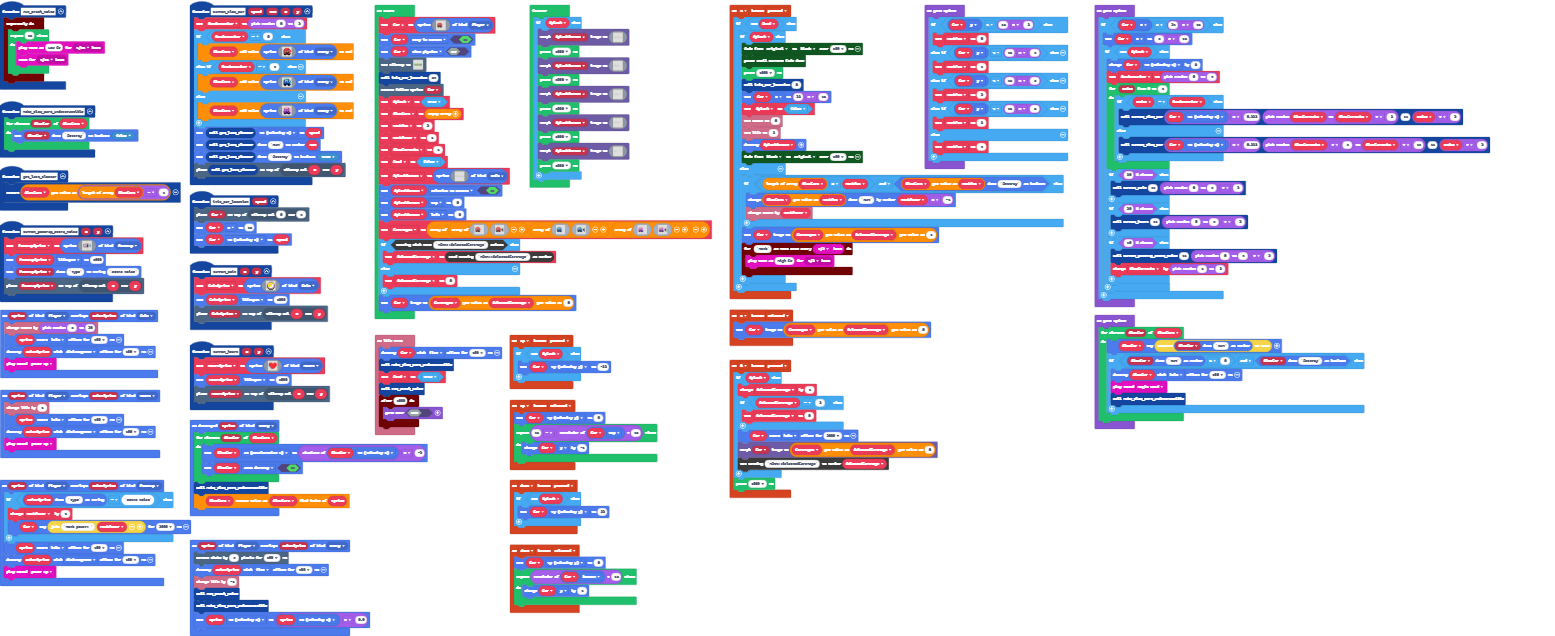
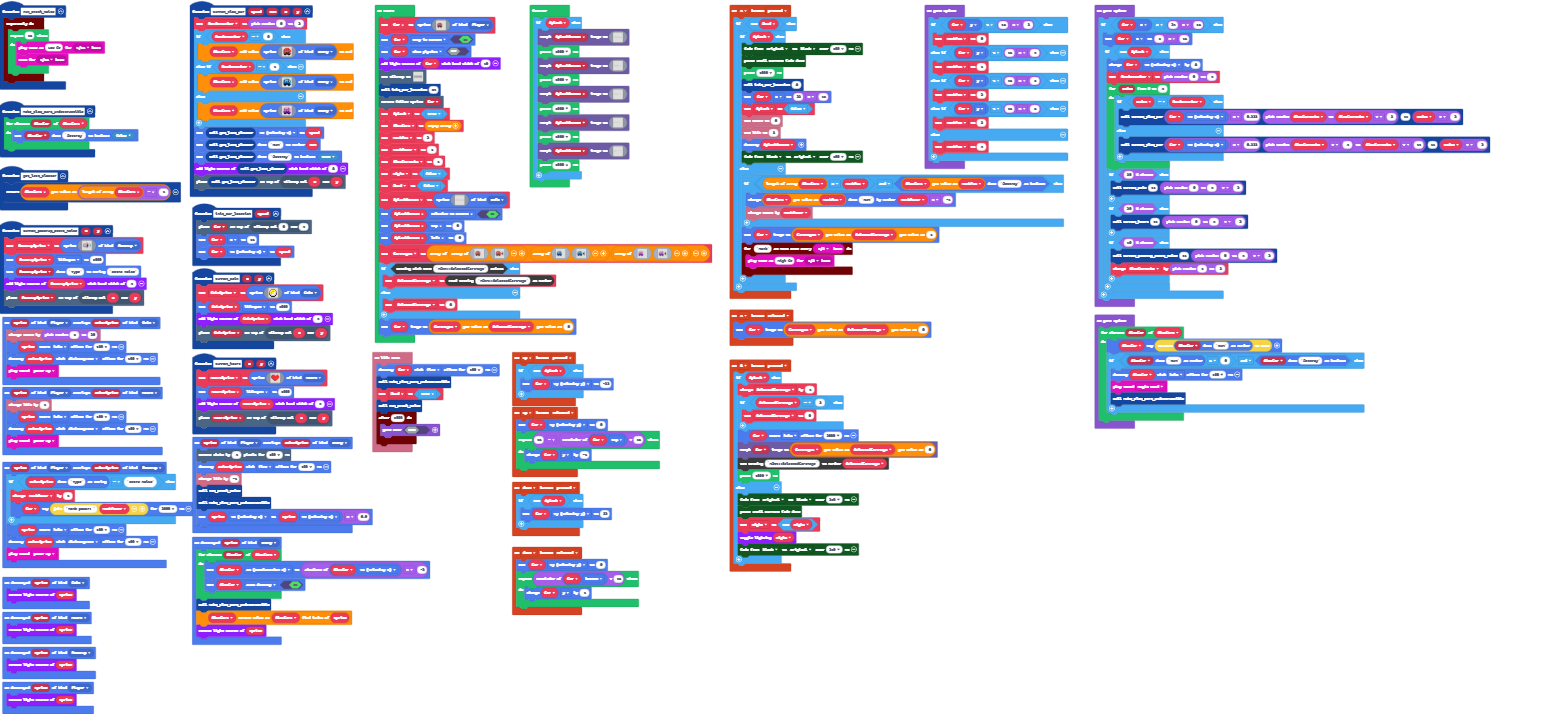
Added night mode

diff --git a/main.ts b/main.ts
@@ -78,8 +78,12 @@ function summon_slow_car (speed: number, num: number, x: number, y: number) {
     get_last_slowcar().vx = speed
     sprites.setDataNumber(get_last_slowcar(), "Num", num)
     sprites.setDataBoolean(get_last_slowcar(), "Destroy", true)
+    multilights.addLightSource(get_last_slowcar(), 8)
     tiles.placeOnTile(get_last_slowcar(), tiles.getTileLocation(x, y))
 }
+sprites.onDestroyed(SpriteKind.Coin, function (sprite) {
+    multilights.removeLightSource(sprite)
+})
 controller.B.onEvent(ControllerButtonEvent.Pressed, function () {
     if (Splash) {
         SelectedCarImage += 1
@@ -89,8 +93,14 @@ controller.B.onEvent(ControllerButtonEvent.Pressed, function () {
         Car.startEffect(effects.halo, 2000)
         imagemorph.morph(Car, CarImages[SelectedCarImage][0])
         blockSettings.writeNumber("HONK!:SelectedCarImage", SelectedCarImage)
+        pause(1000)
+    } else {
+        color.startFade(color.originalPalette, color.Black, 250)
+        color.pauseUntilFadeDone()
+        Night = !(Night)
+        multilights.toggleLighting(Night)
+        color.startFade(color.Black, color.originalPalette, 250)
     }
-    pause(1000)
 })
 function make_slow_cars_undestructible () {
     for (let SlowCar of SlowCars) {
@@ -151,6 +161,9 @@ sprites.onOverlap(SpriteKind.Player, SpriteKind.Heart, function (sprite, otherSp
     otherSprite.destroy(effects.disintegrate, 100)
     music.powerUp.play()
 })
+sprites.onDestroyed(SpriteKind.PowerUp, function (sprite) {
+    multilights.removeLightSource(sprite)
+})
 function summon_heart (x: number, y: number) {
     HeartSprite = sprites.create(img`
         . c 2 2 . . 2 2 . 
@@ -162,6 +175,7 @@ function summon_heart (x: number, y: number) {
         . . . c 2 2 . . . 
         `, SpriteKind.Heart)
     HeartSprite.lifespan = 5000
+    multilights.addLightSource(HeartSprite, 4)
     tiles.placeOnTile(HeartSprite, tiles.getTileLocation(x, y))
 }
 controller.A.onEvent(ControllerButtonEvent.Released, function () {
@@ -202,6 +216,7 @@ function summon_powerup_extra_noise (x: number, y: number) {
         `, SpriteKind.PowerUp)
     PowerUpSprite.lifespan = 5000
     sprites.setDataString(PowerUpSprite, "Type", "extra noise")
+    multilights.addLightSource(PowerUpSprite, 4)
     tiles.placeOnTile(PowerUpSprite, tiles.getTileLocation(x, y))
 }
 info.onLifeZero(function () {
@@ -212,6 +227,9 @@ info.onLifeZero(function () {
     timer.after(5000, function () {
         game.over(false)
     })
+})
+sprites.onDestroyed(SpriteKind.Heart, function (sprite) {
+    multilights.removeLightSource(sprite)
 })
 function summon_coin (x: number, y: number) {
     CoinSprite = sprites.create(img`
@@ -225,6 +243,7 @@ function summon_coin (x: number, y: number) {
         . . f f f f . . 
         `, SpriteKind.Coin)
     CoinSprite.lifespan = 5000
+    multilights.addLightSource(CoinSprite, 4)
     tiles.placeOnTile(CoinSprite, tiles.getTileLocation(x, y))
 }
 sprites.onDestroyed(SpriteKind.Enemy, function (sprite) {
@@ -234,12 +253,16 @@ sprites.onDestroyed(SpriteKind.Enemy, function (sprite) {
     }
     make_slow_cars_undestructible()
     SlowCars.removeAt(SlowCars.indexOf(sprite))
+    multilights.removeLightSource(sprite)
 })
 function init_car_location (speed: number) {
     tiles.placeOnTile(Car, tiles.getTileLocation(0, 4))
     Car.x = 16
     Car.vx = speed
 }
+sprites.onDestroyed(SpriteKind.Player, function (sprite) {
+    multilights.removeLightSource(sprite)
+})
 sprites.onOverlap(SpriteKind.Player, SpriteKind.Enemy, function (sprite, otherSprite) {
     scene.cameraShake(4, 500)
     otherSprite.destroy(effects.fire, 100)
@@ -256,6 +279,7 @@ let SelectedCarImage = 0
 let CarImages: Image[][] = []
 let SplashScreen: Sprite = null
 let Dead = false
+let Night = false
 let HonkPower = 0
 let HonkPos = 0
 let SlowCars: Sprite[] = []
@@ -281,6 +305,7 @@ Car = sprites.create(img`
     `, SpriteKind.Player)
 Car.setFlag(SpriteFlag.StayInScreen, true)
 Car.setFlag(SpriteFlag.ShowPhysics, false)
+multilights.addLightSource(Car, 10)
[1 lines of base64/hex data omitted]
     2 2 2 2 2 2 2 2 2 2 2 2 2 2 2 2 2 2 2 2 2 2 2 2 2 2 2 2 2 2 
     2 2 2 2 2 2 2 2 2 2 2 2 2 2 2 2 2 2 2 2 2 2 2 2 2 2 2 2 2 2 
@@ -299,6 +324,7 @@ SlowCars = []
 HonkPos = 2
 HonkPower = 1
 let SlowCarHonks = 1
+Night = false
 Dead = false
 SplashScreen = sprites.create(img`
     ................................................................................................................................................................
